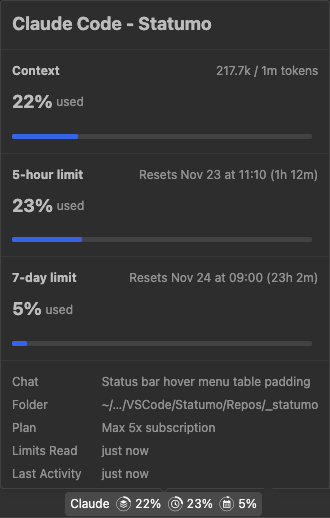
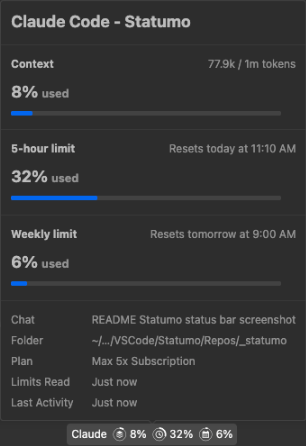
Update the hover screenshot in the readme

diff --git a/README.md b/README.md
@@ -12,7 +12,7 @@ Each tool is one status bar item that starts with its name, Claude or Codex, and
 
 Hover over an item for the full breakdown, with a progress bar for context and each limit that turns the warning or error color when a limit runs low: the session title, token counts, when each limit resets (as today or tomorrow when it's that soon), your plan when the tool reports it, and how recently each reading arrived. Click an item to open that tool's panel, or right-click the status bar to hide either one.
 
-![The Claude Code hover: context, 5-hour limit, and 7-day limit sections, each with a percent and progress bar, above the session title, folder, plan, and reading ages](images/statumo-hover.png)
+![The Claude Code hover: context, 5-hour limit, and weekly limit sections, each with a percent and progress bar, above the session title, folder, plan, and reading ages](images/statumo-hover.png)
 
 ## What each part follows
 
